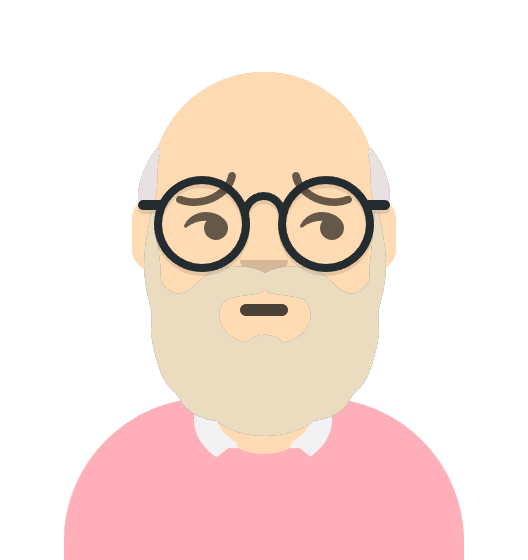
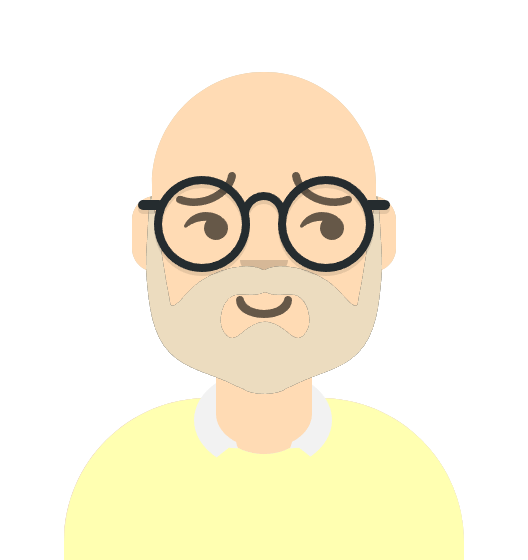
キャラクター画像更新(ばらつきをなくす)、ズーム率の上限設定

diff --git a/js/main.js b/js/main.js
@@ -20,7 +20,8 @@ const main = async function () {
   // ブラウザから取得できる座標を優先
   // 取得できなかった場合は言語コードから国を推定しその首都に設定
   const defaultLatlng = await getDefaultLatlng();
-  const defaultZoomLevel = 17;
+  const defaultZoomLevel = 16;
+  const minZoomLevel = 15;
 
   // area content
   let areaContentList = Array();
@@ -28,7 +29,7 @@ const main = async function () {
   let talkContents = {};
   let npcObjects = null;
   let centerLatlng = null;
-  const queryRadius = 2.00;
+  const queryRadius = 2.0;
   let rectLatLng = null;
   let graph = null;
   let graphNodeInfoArray = null;
@@ -39,7 +40,7 @@ const main = async function () {
   window.addPlayer = addPlayer;
 
   // OpenStreetMapを扱うライブラリLeaflet関連の初期化
-  let map = L.map("mapid", { zoomControl: false });
+  let map = L.map("mapid", { zoomControl: false, minZoom: minZoomLevel });
   map.addControl(new L.Control.Fullscreen());
   let tileLayer = L.tileLayer(
     "https://{s}.tile.openstreetmap.org/{z}/{x}/{y}.png",
@@ -349,7 +350,7 @@ const main = async function () {
       var fontWeight = "bold"; // 100から900までの数値、または 'bold', 'normal' など
       var fontSize = "1.0em";
       while ((match = regex.exec(splitList[2])) !== null) {
-        talkList.push("[" + match[1] +"]" + match[2]);
+        talkList.push("[" + match[1] + "]" + match[2]);
       }
 
       const key1 = splitList[0];
